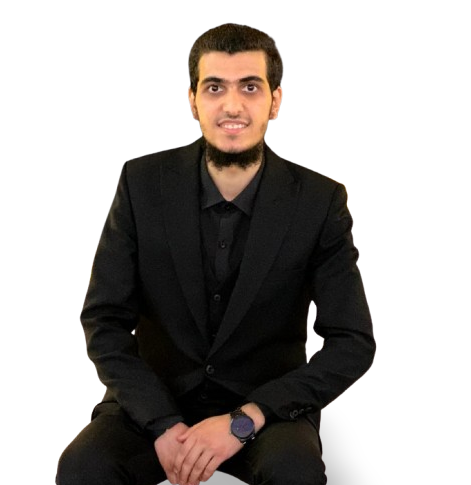
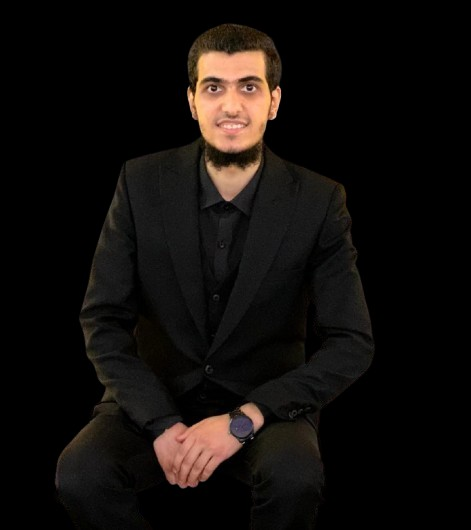
change design image hero

diff --git a/src/app/components/hero/hero.component.html b/src/app/components/hero/hero.component.html
@@ -42,21 +42,11 @@
     </div>
   
     <!-- Right Side (Image) -->
-    <div class="w-full md:w-1/2 flex items-center justify-end mr-[7%] mt-10 md:mt-0">
-      <div class="relative max-w-[90%] md:max-w-[80%] lg:max-w-[60%]">
-        <!-- Outer Circle -->
-        <!-- <div class="relative w-full aspect-square rounded-full flex items-center justify-center bg-[#99ba93] shadow-lg"> -->
-          <!-- Middle Circle -->
-          <!-- <div class="w-[93%] h-[93%] rounded-full flex items-center justify-center bg-[#c3e8bd] shadow-md"> -->
-            <!-- Inner Circle -->
-            <!-- <div class="w-[90%] h-[90%] rounded-full overflow-hidden flex items-center justify-center bg-white shadow-sm"> -->
-              <!-- Scaling Image -->
+    <div class="w-full md:w-1/2 flex items-center justify-end mr-[7%] mt-10 md:mt-0">         
+      <div class="relative max-w-[70%] md:max-w-[60%] lg:max-w-[50%] rounded-full overflow-hidden border-5 border-none shadow-xl">
+            <!-- Scaling Image -->
               <img src="img/hero.jpg" alt="hero" class="w-full h-full object-cover ">
             </div>
           </div>
-        <!-- </div>
-      </div>
-    </div>
-   -->
   </section>
   
